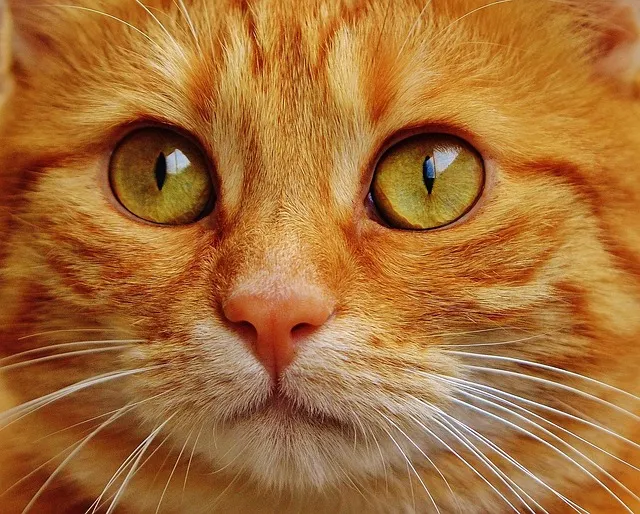
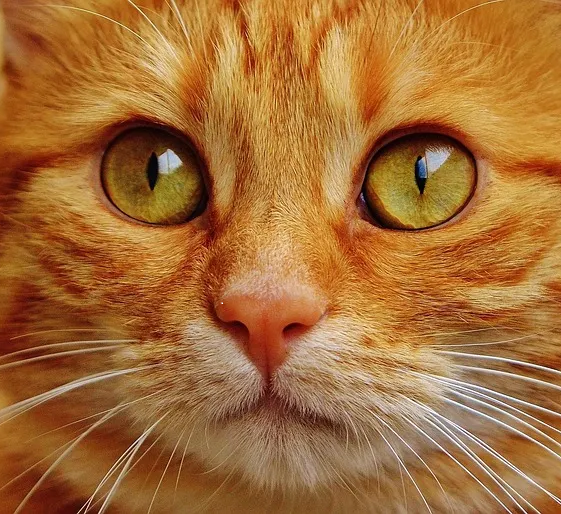
Started on pet creation page and other minor adjustments

diff --git a/create-pet.html b/create-pet.html
@@ -5,7 +5,7 @@
     <meta name="viewport" content="width=device-width, initial-scale=1.0">
     <link rel="stylesheet" href="css/login-register.css">
     <script src="js/auth.js" defer></script>
-    <title>Feline Good | Login</title>
+    <title>Feline Good | Create Pet</title>
 </head>
 <body>
     <div class="main-container">
@@ -17,18 +17,9 @@
                 <img src="media/cat-right.png" alt="An image of a cat looking to the right with a wide open mouth.">
             </div>
             <div id="main-content">
-                <h2>Login</h2>
+                <h2>Create your pet</h2>
                 <p id="message"></p>
-                <form id="login-form">
-                    <label for="login-username">Username:</label>
-                    <input type="text" id="login-username" name="username" required>
-                    
-                    <label for="login-password">Password:</label>
-                    <input type="password" id="login-password" name="password" required>
-                    
-                    <button type="submit">Confirm</button>
-                </form>
-                <p>Don't have an account? <a href="register.html">Register here</a>.</p>
+                
             </div>
             <div class="banner banner-right">
                 <img src="media/cat-left.png" alt="An image of a cat looking to the left with a wide open mouth.">

diff --git a/js/auth.js b/js/auth.js
@@ -29,7 +29,9 @@ const registerUser = (event) => {
 
     const newUser = {
         username: username,
-        password: password
+        password: password,
+        petName: null,
+        petBreed: null
     };
 
     users.push(newUser);
@@ -51,10 +53,15 @@ const loginUser = (event) => {
     const users = getUserData();
 
     const userFound = users.find(user => user.username === username && user.password === password);
+    const hasPet = userFound && userFound.petName && userFound.petBreed;
 
     if (userFound) {
         alert('Login successful! Welcome back, ' + username + '!');
-        // Redirect to homepage or dashboard
+        if (hasPet) {
+            window.location.href = 'dashboard.html';
+        } else {
+            window.location.href = 'create-pet.html';
+        }
     } else {
         messageElement.textContent = 'Invalid username or password. Please try again.';
     }

diff --git a/index.html b/index.html
@@ -18,13 +18,14 @@
             </div>
             <div id="main-content">
                 <img src="media/cat-face.png" alt="A close up image of a cat's face." id="mobile-img">
-                <p id="intro-paragraph">Placeholder Text</p>
+                <p id="intro-paragraph"></p>
                 <button id="login-btn" onclick="location.href='login.html'">Login</button>
                 <button id="register-btn" onclick="location.href='register.html'">Register</button>
             </div>
             <div class="banner banner-right">
                 <img src="media/cat-left.png" alt="An image of a cat looking to the left with a wide open mouth.">
             </div>
-    </main>
+        </main>
+    </div>
 </body>
 </html>

diff --git a/register.html b/register.html
@@ -33,6 +33,7 @@
             <div class="banner banner-right">
                 <img src="media/cat-left.png" alt="An image of a cat looking to the left with a wide open mouth.">
             </div>
-    </main>
+        </main>
+    </div>
 </body>
 </html>

diff --git a/css/styles.css b/css/styles.css
@@ -104,7 +104,7 @@ main {
 }
 
 #mobile-img {
-	width: 120px;
+	width: 50%;
 	aspect-ratio: 1 / 1;
 	border-radius: 20px;
 	border: 4px solid #f97316; /* orange-500 */
